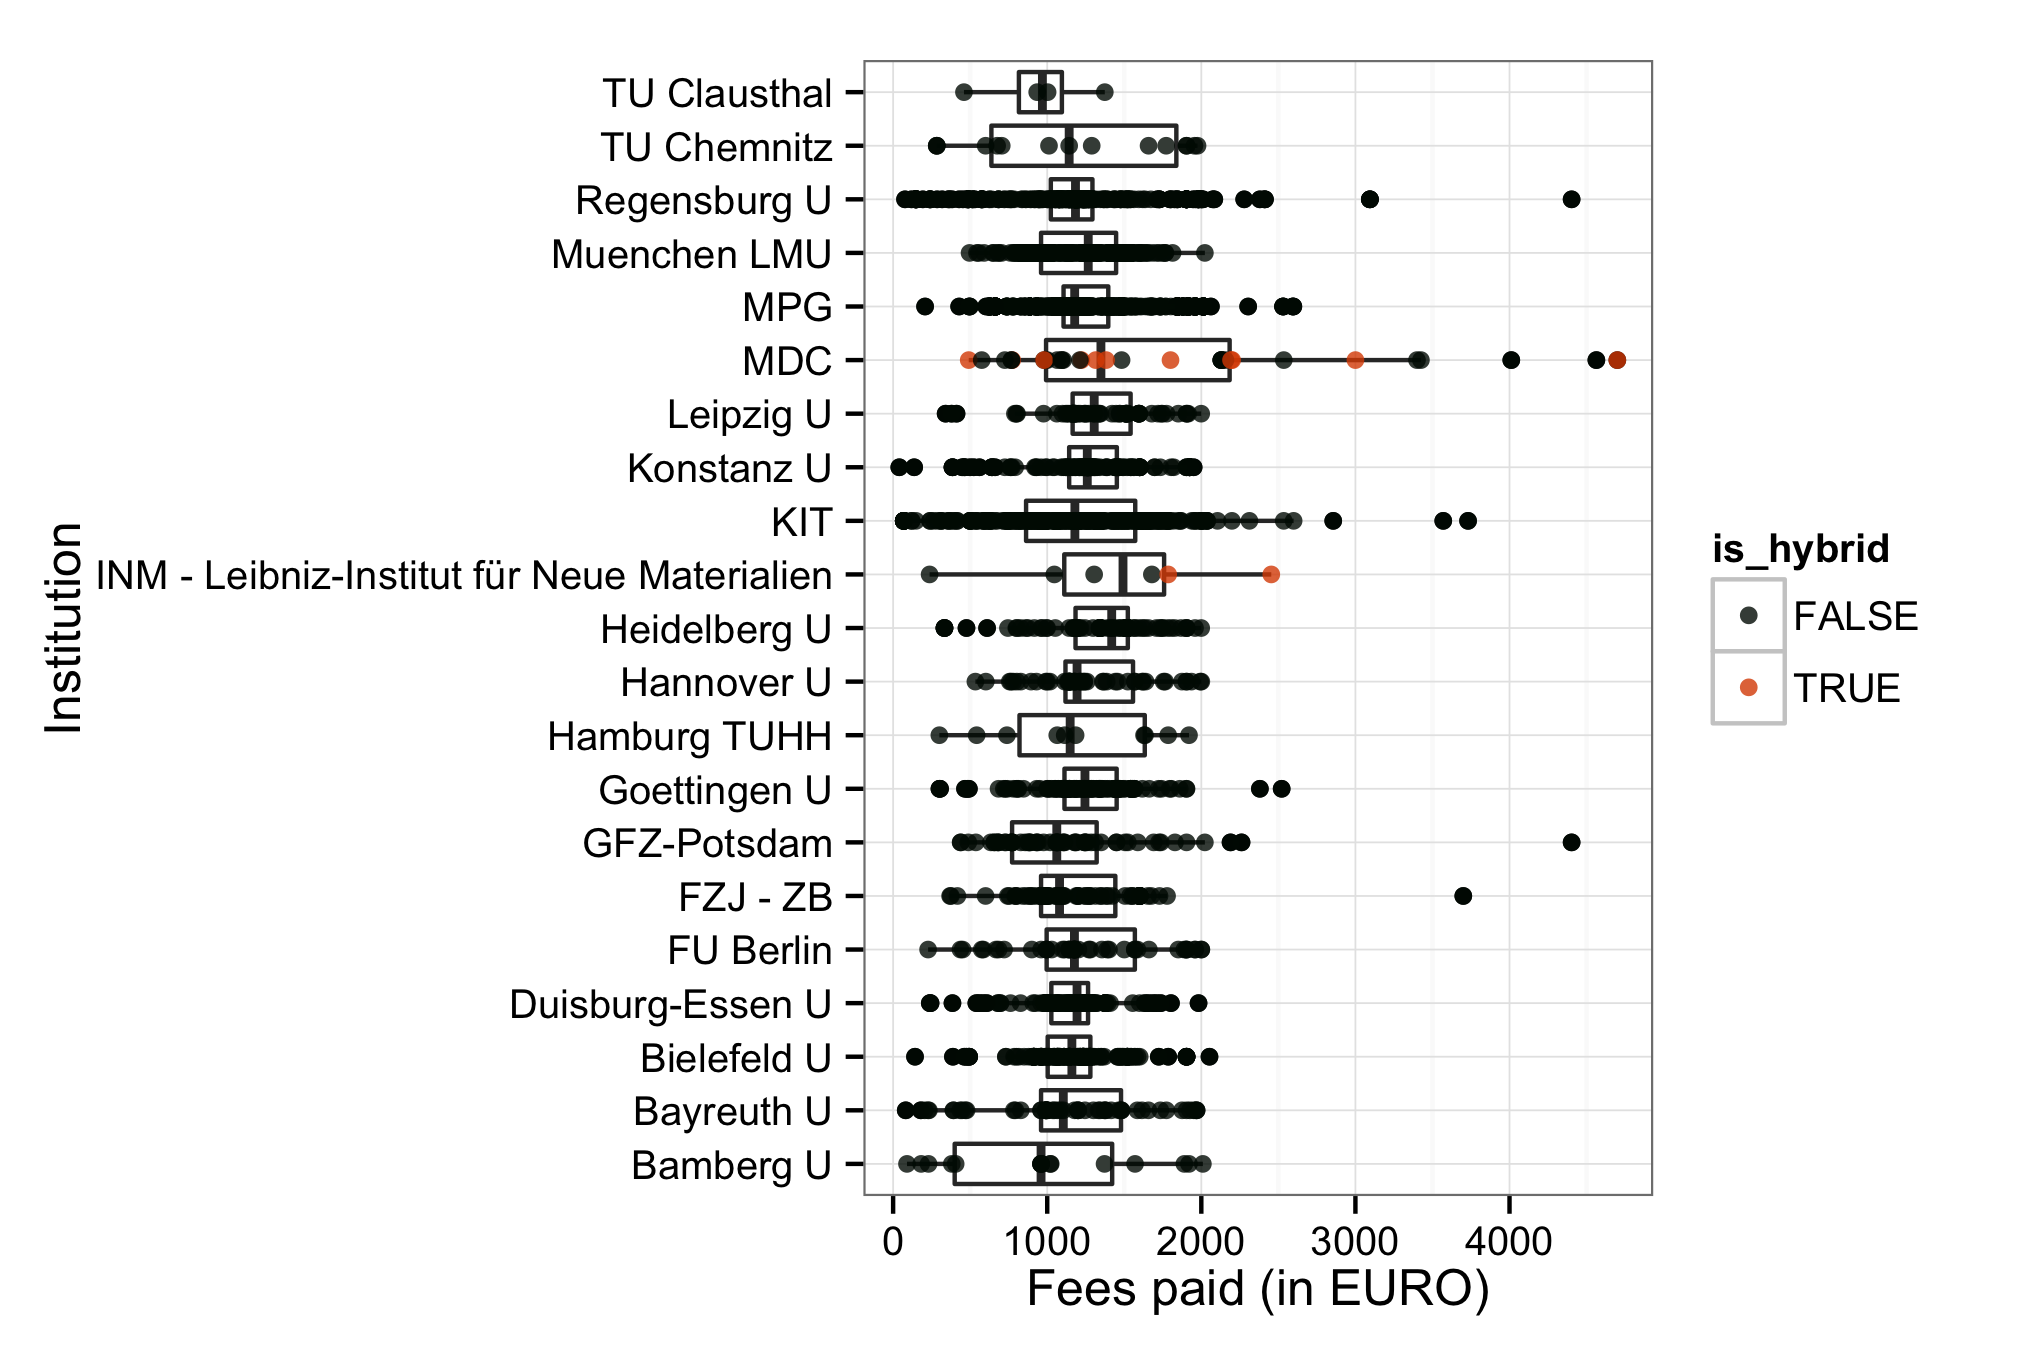
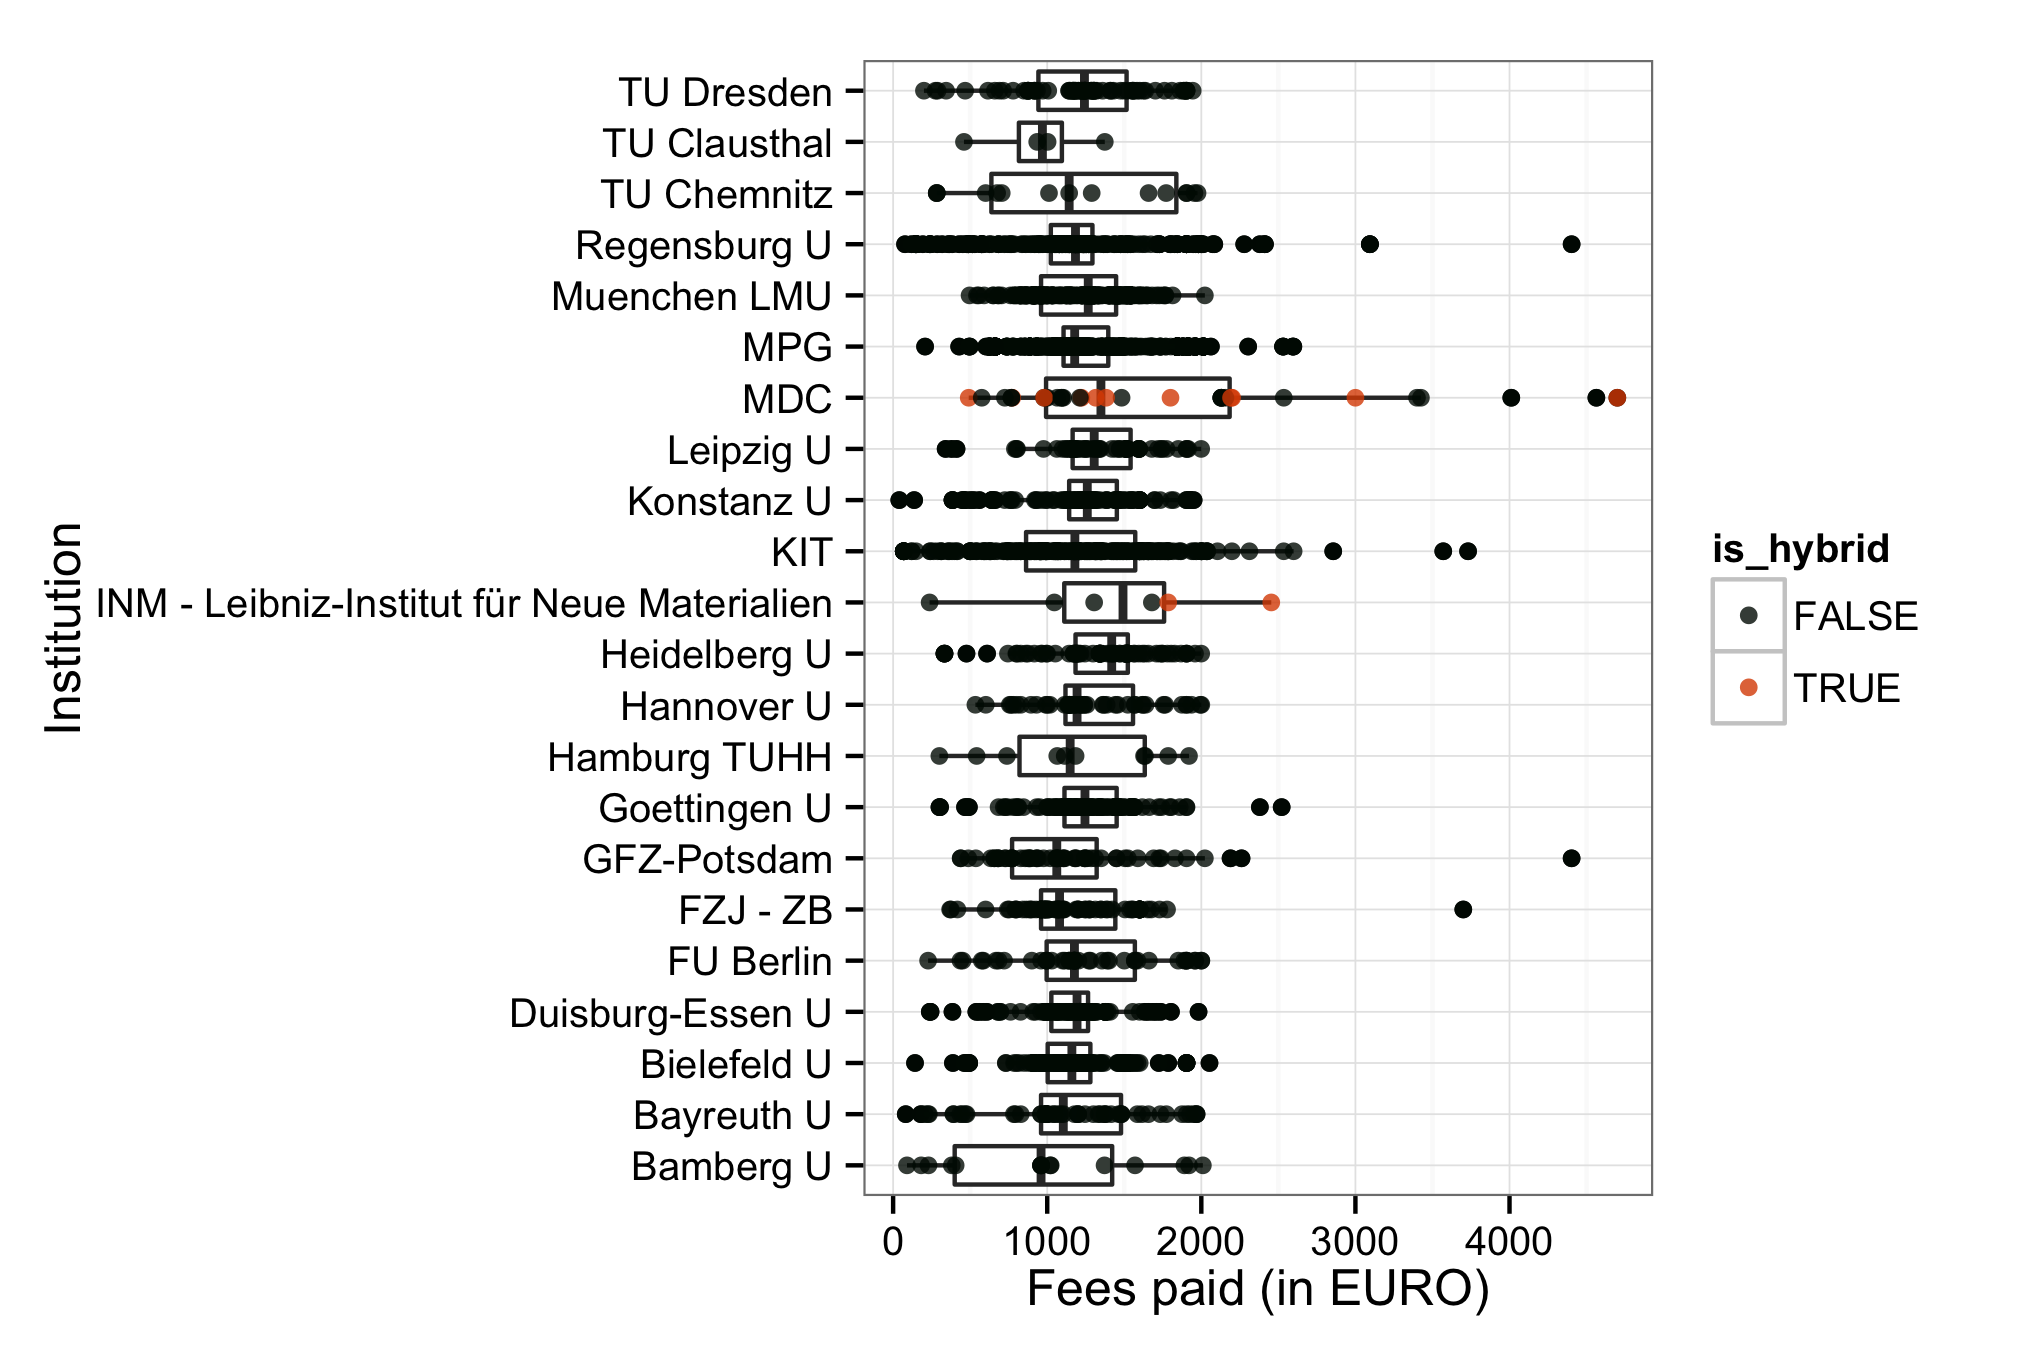
adding tu dresden 13-14 #40

diff --git a/README.md b/README.md
@@ -24,6 +24,7 @@ So far, the following German universities have agreed to share information on pa
 - [Free University of Berlin](http://www.fu-berlin.de/sites/open_access/dienstleistungen/artikelgebuehren/publikationsfonds/index.html)
 - [KIT Karlsruhe](http://www.bibliothek.kit.edu/cms/kit-publikationsfonds.php)
 - [Technische Universität Chemnitz](https://www.tu-chemnitz.de/ub/publizieren/openaccess/publikationsfonds.html)
+- [Technische Universität Dresden](http://www.slub-dresden.de/service/schreiben-publizieren/open-access-service/publikationsfonds/)
 - [University of Bamberg](http://www.uni-bamberg.de/en/ub/publishing/open-access-publishing/open-access-funds/)
 - [University of Duisburg-Essen](https://www.uni-due.de/ub/open_access.shtml)
 - [University of Göttingen](http://www.sub.uni-goettingen.de/en/electronic-publishing/open-access/open-access-publication-funding/)
@@ -52,13 +53,13 @@ ation/library)
 
 Information on both open access journal articles and open access publication of articles in toll-access journals ("hybrid") are provided.
 
-In total,  3 668 382€ for  2 977 articles were paid by the participating unviversities. Average  fee is 1 232.2€ and the median 1 196€.
+In total,  3 764 428€ for  3 055 articles were paid by the participating unviversities. Average  fee is 1 232.2€ and the median 1 198€.
 
 ### Open Access Journals
 
 
 
-At the moment, the dataset releases information on 2 964 articles in open access journals which charge publication fees. Total expenditure amounts to  3 644 089€. Average  fee is 1 229.4€ and the median 1 193€.
+At the moment, the dataset releases information on 3 042 articles in open access journals which charge publication fees. Total expenditure amounts to  3 740 134€. Average  fee is 1 229.5€ and the median 1 197€.
 
 View dataset on [GitHub](https://github.com/OpenAPC/openapc-de/blob/master/data/apc_de.csv).
 
@@ -86,6 +87,7 @@ View dataset on [GitHub](https://github.com/OpenAPC/openapc-de/blob/master/data/
 |Regensburg U                                |      280|            331718|          1185|   1183|
 |TU Chemnitz                                 |       15|             17441|          1163|   1142|
 |TU Clausthal                                |        4|              3771|           943|    969|
+|TU Dresden                                  |       78|             96046|          1231|   1242|
 
 ### Hybrid articles
 
@@ -165,7 +167,7 @@ This work is licensed under the Creative Commons Attribution 4.0 Unported Licens
 
 Bielefeld University Library archives a remote including version history. To cite:
 
-Apel, Jochen; Bertelmann, Roland; Beucke, Daniel; Blumtritt, Ute; Busjahn, Dorothea;  Deinzer, Gernot; Dorner, Andrea; Engelhardt, Clemens; Hell, Dominik; Herb, Ulrich; Feldsien-Sudhaus, Inken; Franke, Fabian; Frick, Claudia; Geschuhn, Kai Karin; Jaeger, Doris;  Lützenkirchen, Frank; Kroiss, Stephanie; Oberländer, Anja; 
+Apel, Jochen; Bertelmann, Roland; Beucke, Daniel; Blumtritt, Ute; Busjahn, Dorothea;  Deinzer, Gernot; Dorner, Andrea; Engelhardt, Clemens; Hell, Dominik; Herb, Ulrich; Feldsien-Sudhaus, Inken; Franke, Fabian; Frick, Claudia; Geschuhn, Kai Karin; Kuehle, Gerrit; Jaeger, Doris;  Lützenkirchen, Frank; Kroiss, Stephanie; Oberländer, Anja; 
 Peil, Vitali; Pieper, Dirk; Schlachter, Michael; Schlegel, Birgit; Sikora, Adriana; Tullney, Marco; Vieler, Astrid; Witt, Sabine; Jahn, Najko; (2014 -): *Datasets on fee-based Open Access publishing across German Institutions*. Bielefeld University. [10.4119/UNIBI/UB.2014.18](http://dx.doi.org/10.4119/UNIBI/UB.2014.18)
 
 ## Acknowledgement
@@ -176,7 +178,7 @@ For data enrichment, sample visualisations and explorations we build on the work
 
 ## Contributors
 
-Jochen Apel, Roland Bertelmann, Daniel Beucke, Ute Blumtritt, Dorothea Busjahn, Gernot Deinzer, Andrea Dorner,  Clemens Engelhardt, Dominik Hell, Ulrich Herb, Inken Feldsien-Sudhaus, Fabian Franke, Claudia Frick, Kai Karin Geschuhn, Doris Jaeger, Stephanie Kroiss, Frank Lützenkirchen, Anja Oberländer, Vitali Peil, Dirk Pieper, Michael Schlachter, Birgit Schlegel, Adriana Sikora, Marco Tullney, Astrid Vieler, Sabine Witt, Najko Jahn
+Jochen Apel, Roland Bertelmann, Daniel Beucke, Ute Blumtritt, Dorothea Busjahn, Gernot Deinzer, Andrea Dorner,  Clemens Engelhardt, Dominik Hell, Ulrich Herb, Inken Feldsien-Sudhaus, Fabian Franke, Claudia Frick, Kai Karin Geschuhn, Gerrit Kuehle, Doris Jaeger, Stephanie Kroiss, Frank Lützenkirchen, Anja Oberländer, Vitali Peil, Dirk Pieper, Michael Schlachter, Birgit Schlegel, Adriana Sikora, Marco Tullney, Astrid Vieler, Sabine Witt, Najko Jahn
 
 ## Contact
 
